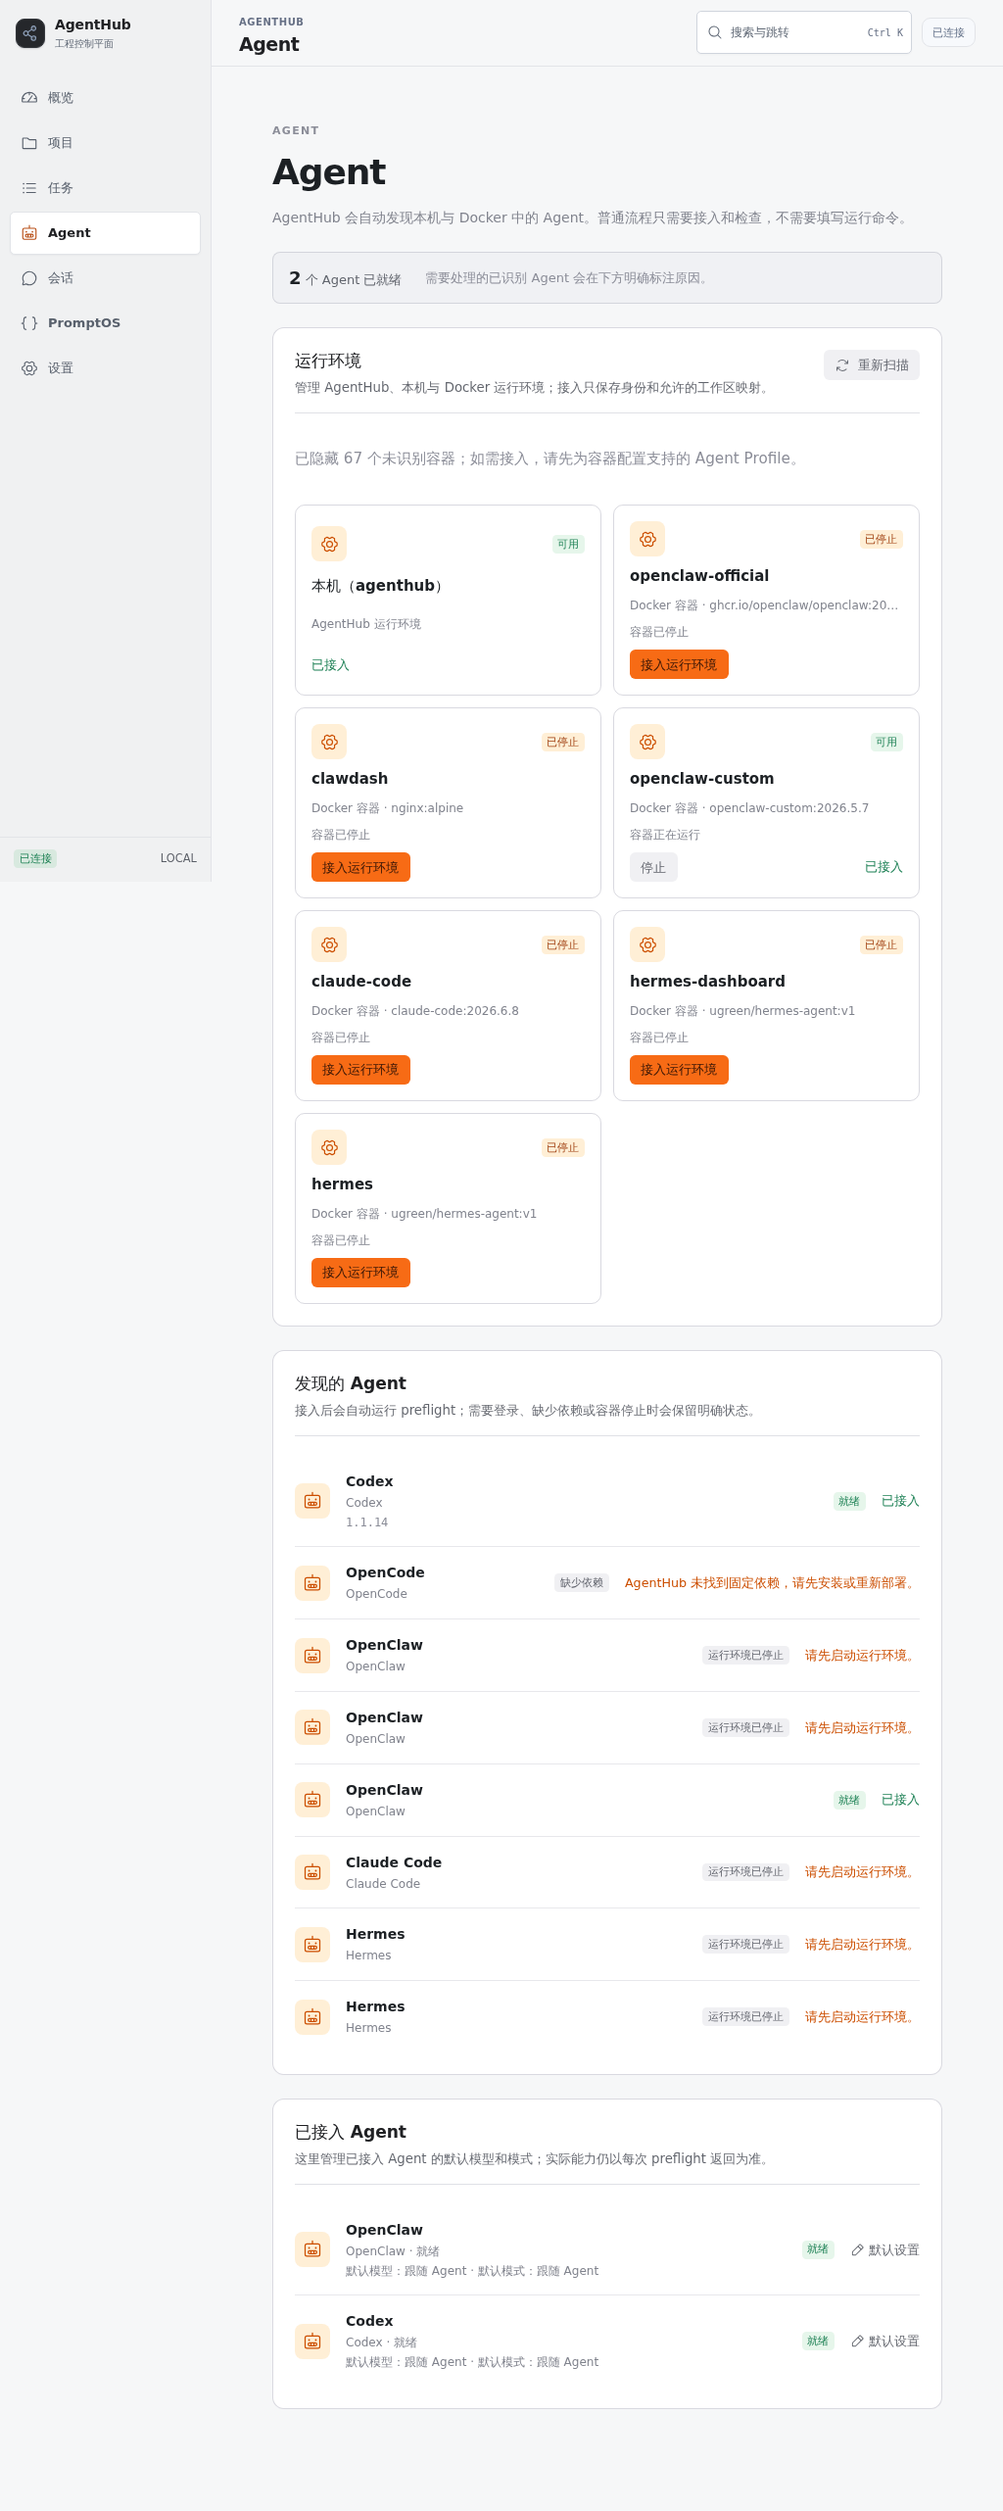
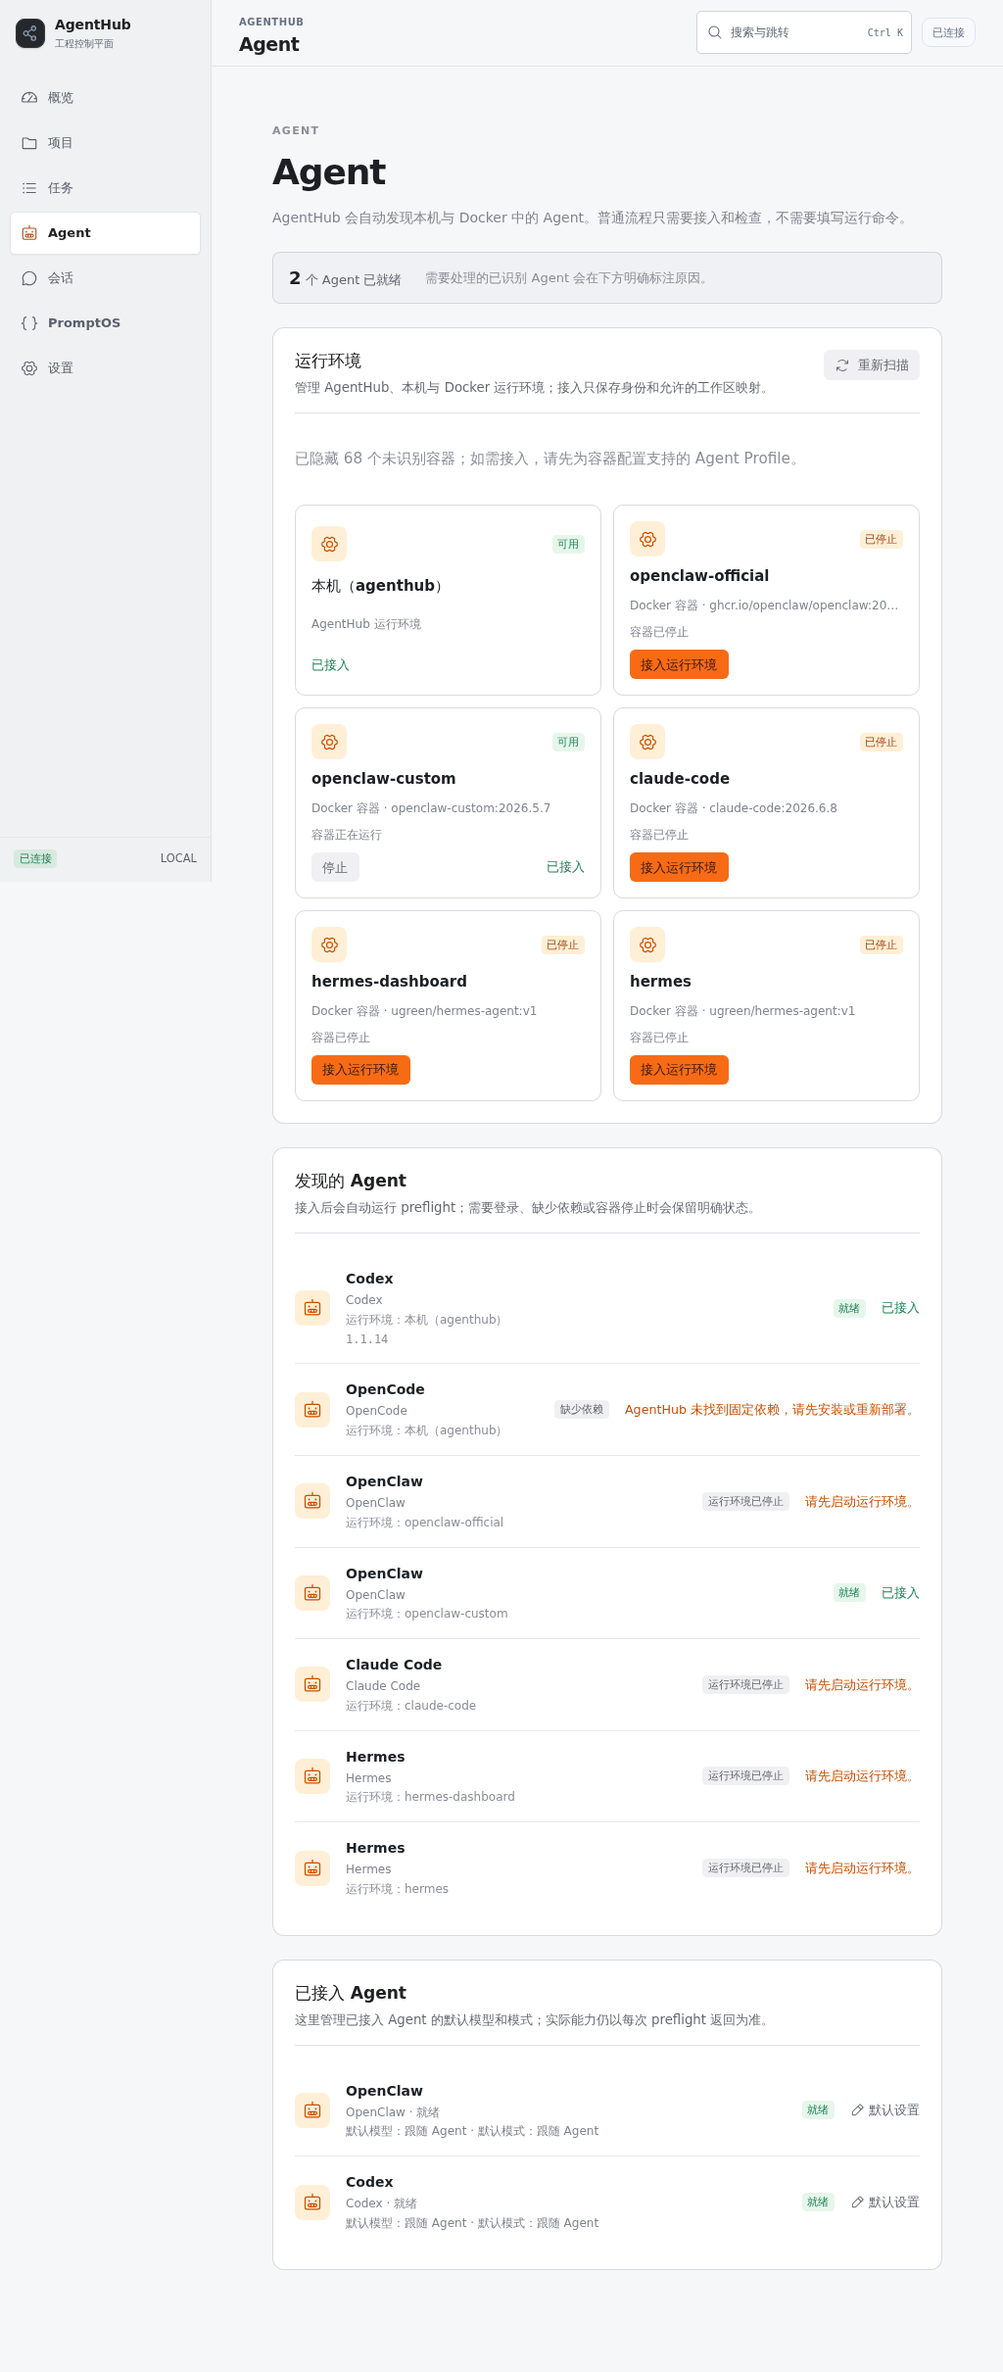
docs(release): 记录 nas48 Agent 视觉验收

diff --git a/docs/implementation/PROGRESS.md b/docs/implementation/PROGRESS.md
@@ -1,10 +1,10 @@
 # 实施进度
 
-最后更新：2026-08-16
+最后更新：2026-08-17
 
 ## v0.6 当前 Goal：产品化与可用性重构
 
-状态：`M1-M9 / UX_REFACTOR_COMPLETE · M10 / AUTOMATED_REGRESSION_READY · M12 / NAS11_DEPLOYED · M13 / DISCOVERY_BOUNDARY_NAS12_DEPLOYED · M14 / REMOTE_INVENTORY_NAS13_DEPLOYED · M15 / DISCOVERY_STATUS_NAS14_DEPLOYED · M16 / PROMPTOS_BINDING_UX_NAS15_DEPLOYED · M17 / TASK_REVIEW_COPY_NAS16_DEPLOYED · M18 / REMOTE_PROJECT_PATH_NAS17_DEPLOYED · M19 / ERROR_COPY_NAS18_DEPLOYED · M20 / TERMINAL_COPY_FOCUS_NAS19_DEPLOYED · M24 / RUNTIME_SETTINGS_SURFACE_NAS24_DEPLOYED · M25 / SESSION_CONFIG_NAS25_DEPLOYED · M26 / WORKSPACE_RUN_STATE_NAS26_DEPLOYED · M27 / APPROVAL_TASK_RUNTIME_COPY_NAS28_DEPLOYED · M28 / REMOTE_NODE_ROOT_EDITOR_NAS29_DEPLOYED · M29 / REMOTE_NODE_COPY_NAS31_DEPLOYED · M30 / CLEAN_OVERLAY_RELEASE_NAS31_DEPLOYED · M31 / REMOTE_NODE_GIT_COPY_NAS32_DEPLOYED · M32 / FINAL_AUTOMATED_GATE_PASS · M33 / COMPOSER_A11Y_NAS33_DEPLOYED · M34 / PROMPTOS_PRESENTATION_CODE_READY · M35 / PROMPTOS_PRESENTATION_NAS34_DEPLOYED · M36 / UI_SURFACE_SYMMETRY_NAS35_DEPLOYED · M37 / FOCUS_STYLE_NAS36_DEPLOYED · M38 / ORDINARY_AGENT_SURFACE_NAS37_DEPLOYED · M39 / DASHBOARD_REPO_KIND_NAS38_DEPLOYED · M40 / USER_ERROR_BOUNDARY_NAS39_DEPLOYED · M41 / MALFORMED_ENVELOPE_NAS40_DEPLOYED · M42 / REALTIME_ENVELOPE_NAS41_DEPLOYED · M43 / ERROR_ENVELOPE_NAS42_DEPLOYED · M44 / PROJECT_PICKER_ERROR_RECOVERY_NAS43_DEPLOYED · M45 / PROJECT_PREFLIGHT_RETRY_NAS44_DEPLOYED · M46 / RESPONSIVE_UI_FIX_NAS45_DEPLOYED · AUTOMATED_VISUAL_GATE_PASS · ACP/LIVE/VENDOR_MATRIX/TERMINAL_UI_VERIFIED · TX5PRO_MANUAL_PENDING`。
+状态：`M1-M9 / UX_REFACTOR_COMPLETE · M10 / AUTOMATED_REGRESSION_READY · M12 / NAS11_DEPLOYED · M13 / DISCOVERY_BOUNDARY_NAS12_DEPLOYED · M14 / REMOTE_INVENTORY_NAS13_DEPLOYED · M15 / DISCOVERY_STATUS_NAS14_DEPLOYED · M16 / PROMPTOS_BINDING_UX_NAS15_DEPLOYED · M17 / TASK_REVIEW_COPY_NAS16_DEPLOYED · M18 / REMOTE_PROJECT_PATH_NAS17_DEPLOYED · M19 / ERROR_COPY_NAS18_DEPLOYED · M20 / TERMINAL_COPY_FOCUS_NAS19_DEPLOYED · M24 / RUNTIME_SETTINGS_SURFACE_NAS24_DEPLOYED · M25 / SESSION_CONFIG_NAS25_DEPLOYED · M26 / WORKSPACE_RUN_STATE_NAS26_DEPLOYED · M27 / APPROVAL_TASK_RUNTIME_COPY_NAS28_DEPLOYED · M28 / REMOTE_NODE_ROOT_EDITOR_NAS29_DEPLOYED · M29 / REMOTE_NODE_COPY_NAS31_DEPLOYED · M30 / CLEAN_OVERLAY_RELEASE_NAS31_DEPLOYED · M31 / REMOTE_NODE_GIT_COPY_NAS32_DEPLOYED · M32 / FINAL_AUTOMATED_GATE_PASS · M33 / COMPOSER_A11Y_NAS33_DEPLOYED · M34 / PROMPTOS_PRESENTATION_CODE_READY · M35 / PROMPTOS_PRESENTATION_NAS34_DEPLOYED · M36 / UI_SURFACE_SYMMETRY_NAS35_DEPLOYED · M37 / FOCUS_STYLE_NAS36_DEPLOYED · M38 / ORDINARY_AGENT_SURFACE_NAS37_DEPLOYED · M39 / DASHBOARD_REPO_KIND_NAS38_DEPLOYED · M40 / USER_ERROR_BOUNDARY_NAS39_DEPLOYED · M41 / MALFORMED_ENVELOPE_NAS40_DEPLOYED · M42 / REALTIME_ENVELOPE_NAS41_DEPLOYED · M43 / ERROR_ENVELOPE_NAS42_DEPLOYED · M44 / PROJECT_PICKER_ERROR_RECOVERY_NAS43_DEPLOYED · M45 / PROJECT_PREFLIGHT_RETRY_NAS44_DEPLOYED · M46 / RESPONSIVE_UI_FIX_NAS45_DEPLOYED · M47 / DISCOVERY_FALSE_POSITIVE_NAS47_DEPLOYED · M48 / AGENT_ENVIRONMENT_HIERARCHY_NAS48_DEPLOYED · AUTOMATED_VISUAL_GATE_PASS · ACP/LIVE/VENDOR_MATRIX/TERMINAL_UI_VERIFIED · TX5PRO_MANUAL_PENDING`。
 
 - 已建立新的 durable Goal，范围以根目录两份 v0.6 方案文档为 Source of Truth。
 - 已读取并冻结 v0.5 基线：HEAD `9040efdf`，Vitest 165 passed/7 skipped，lint、typecheck、
@@ -387,10 +387,12 @@ Session → Run → Message → close`；adopt 响应现在返回最新持久化
 - M45 Project 预检重试已提交为 `3b01c6a` 并发布 nas.44：预检失败时提供“重新检查目录”入口，重试期间明确显示检查中；focused test、typecheck、lint、build 通过。nas.44 基于 nas.43 overlay 保留 ARM64 `node-pty` native binding，容器 `running/healthy`，health/root HTTP 200、Compose config 和 `node-pty=READY` 通过。升级前备份位于 `/volume2/Project/.agenthub/central/deployments/20260816T1445Z-pre-nas44/`；未执行 `compose down`，未删除镜像、卷、用户数据或其他 Agent 容器。完整记录见 `docs/qa/nas/2026-08-16-v06-live44/`。
 
 - M46 响应式 UI 修复已提交为 `a5903c5` 并发布 nas.45：移动菜单回到页头布局流，修复 768/390 页头标题裁切；Project 手机卡片操作项拆分为独立行，修复操作文本重叠。Web build 与 Project focused test 通过；Playwright Chromium 对 6 个主要页面执行 1440/1024/768/390 截图，console error 为 0，24 组横向溢出检查全部通过。nas.45 容器 `running/healthy`，health/root HTTP 200、Compose config 和 `node-pty=READY` 通过。升级前备份位于 `/volume2/Project/.agenthub/central/deployments/20260817T040419Z-pre-nas45/`；未执行 `compose down`，未删除镜像、卷、用户数据或其他 Agent 容器。完整视觉记录见 `docs/qa/visual/2026-08-17-v06/`。
+- M47 Agent 发现准确性已提交为 `869fe52` 并发布 nas.47：移除 `claw` 宽泛容器提示，避免把 `clawdash` 误识别为 OpenClaw；discovery focused test 10/10、server build、health/root 和 `node-pty=READY` 通过。升级前备份位于 `/volume2/Project/.agenthub/central/deployments/20260817T043319Z-pre-nas47/`；未执行 `compose down`，未删除镜像、卷、用户数据或其他 Agent 数据。
+- M48 Agent 发现页信息层级已提交为 `96e683d` 并发布 nas.48：Agent 短名称与 `运行环境：...` 次级信息分层，避免 390px 宽度下容器名挤压标题；Discovery focused test 1/1、Web build、overlay build、health/root、Compose config 和 server 工作目录 `node-pty=READY` 通过。真实 NAS Chromium Agent 页面 1440/1024/768/390 四视口 console error 为 0；390px `scrollWidth=clientWidth=bodyScrollWidth=390`。升级前备份位于 `/volume2/Project/.agenthub/central/deployments/20260817T044150Z-pre-nas48/`；未执行 `compose down`，未删除镜像、卷、用户数据或其他 Agent 容器。完整记录见 `docs/qa/nas/2026-08-17-v06-live48/`。
 
 ### 当前进行中
 
-- 自动化视觉 gate 已完成：真实 nas.45 页面在 Chromium headless 下通过 1440/1024/768/390 截图、console 和横向溢出检查；TX5Pro/Computer Use 人工视觉通道仍不可用，因此仅保留 `TX5PRO_MANUAL_PENDING`，不伪称人工通过。
+- 自动化视觉 gate 已完成：真实 nas.48 Agent 页面在 Chromium headless 下通过 1440/1024/768/390 稳定截图、console 和 390px 横向溢出检查；前一轮六页全量检查仍记录在 nas.45 视觉证据中。TX5Pro/Computer Use 手工通道仍不可用，因此仅保留 `TX5PRO_MANUAL_PENDING`，不伪称人工通过。
 - 普通用户旅程的后端闭环已有自动化与真实 Codex/Remote Node 证据；Claude Code、Hermes、OpenClaw
   仍按真实 preflight 能力差异呈现，不把缺少 adapter 或 workspace 映射误报为 READY。
 - M24 Runtime 设置入口已在 nas.24 正式发布并完成静态 bundle、健康状态、授权 capability、Terminal smoke 和

diff --git a/docs/RELEASE-v0.6.0.md b/docs/RELEASE-v0.6.0.md
@@ -96,6 +96,7 @@
 | NAS Compose nas.43       | `agenthub:0.6.0-nas.43`，ARM64，revision `4a0a73a`，`running/healthy`，`192.168.5.110:3210`；Project PathPicker 错误恢复 focused test 1 file/1 passed、typecheck/lint/build、health/root HTTP 200、Compose config 和 server 工作目录 node-pty `READY` 通过 |
 | NAS Compose nas.44       | `agenthub:0.6.0-nas.44`，ARM64，revision `3b01c6a`，`running/healthy`，`192.168.5.110:3210`；Project 预检重试 focused test 1 file/1 passed、typecheck/lint/build、health/root HTTP 200、Compose config 和 server 工作目录 node-pty `READY` 通过 |
 | NAS Compose nas.45       | `agenthub:0.6.0-nas.45`，ARM64，revision `a5903c5`，`running/healthy`，`192.168.5.110:3210`；响应式 UI 修复、Web build、Project focused test、自动化视觉四视口 24 组横向溢出、console error 0、health/root HTTP 200、Compose config 和 server 工作目录 node-pty `READY` 通过 |
+| NAS Compose nas.48       | `agenthub:0.6.0-nas.48`，ARM64，revision `96e683d`，`running/healthy`，`192.168.5.110:3210`；Agent 名称/运行环境分层、Web focused test/build、真实 NAS Chromium Agent 四视口 console error 0、390px 横向溢出、health/root HTTP 200、Compose config 和 server 工作目录 node-pty `READY` 通过 |
 | Remote Node Project      | `cdb7d5b`；Remote Node workflow target preflight、目录授权根、fs.list 相对路径和 traversal 拒绝通过；Route `/api/v1/projects/preflight` 已接入普通用户 PathPicker                                                                                                                                                                                         |
[1 lines of base64/hex data omitted]
 
@@ -302,6 +303,8 @@ UI 对称表面与 nas.35 发布记录见 [`docs/qa/nas/2026-08-16-v06-live35/RE
   `/volume2/Project/.agenthub/central/deployments/20260816T1432Z-pre-nas43/`；nas.42 镜像保留，可按单 service 回滚。首次完整构建因 Dockerfile frontend 429 未采用，最终使用 nas.42 overlay 仅覆盖 web dist 并保留 node-pty native binding；升级只重建 `agenthub` service，未执行 `compose down`，未删除镜像、卷、用户数据或其他 Agent 容器。
 - nas.45 已完成自动化视觉 gate，但仍未声明 TX5Pro/人工视觉验收。升级前备份为
   `/volume2/Project/.agenthub/central/deployments/20260817T040419Z-pre-nas45/`；nas.44 镜像保留，可按单 service 回滚。升级使用 nas.44 overlay 仅覆盖 server/web dist 并保留 node-pty native binding；升级只重建 `agenthub` service，未执行 `compose down`，未删除镜像、卷、用户数据或其他 Agent 容器。
+- nas.48 已完成自动化视觉 gate，但仍未声明 TX5Pro/人工视觉验收。升级前备份为
+  `/volume2/Project/.agenthub/central/deployments/20260817T044150Z-pre-nas48/`；nas.47 镜像保留，可按单 service 回滚。升级使用 nas.47 overlay 仅覆盖 server/web dist 并保留 node-pty native binding；升级只重建 `agenthub` service，未执行 `compose down`，未删除镜像、卷、用户数据或其他 Agent 容器。
 - nas.20 曾因常规镜像覆盖 ARM64 `node-pty` binding 而被 supersede；nas.21 已用 overlay 基于 nas.19 修复，
   nas.20/nas.21 镜像均保留，未删除镜像、卷或用户数据。
 - 升级只重建 `agenthub` service，没有执行 `docker compose down`，没有删除镜像、卷、用户数据或其他 Agent 容器。
@@ -309,7 +312,7 @@ UI 对称表面与 nas.35 发布记录见 [`docs/qa/nas/2026-08-16-v06-live35/RE
 
 ## 未验证项与明确边界
 
-- 当前环境没有 TX5Pro/Computer Use 人工浏览器通道，因此 1440、1024、768、390 四视口人工视觉验收和人工可用性 checklist 尚未完成；nas.45 的自动化 Chromium 视觉 gate 已完成，不能将其声明为 TX5Pro v0.6 人工视觉通过。
+- 当前环境没有 TX5Pro/Computer Use 人工浏览器通道，因此 1440、1024、768、390 四视口人工视觉验收和人工可用性 checklist 尚未完成；nas.48 的自动化 Chromium 视觉 gate 已完成，不能将其声明为 TX5Pro v0.6 人工视觉通过。
 - NAS 当前 `linux/arm64` 的正式 nas.17 镜像已具备可加载的 `node-pty` native binding，
   `GET /api/v1/settings/capabilities` 返回 `terminal.available=true`、`code=READY`；如果其他平台或镜像
   缺少 native binding，Workspace 仍会显示中文原因并禁用 Terminal 操作，不伪称 PTY 已可用。

diff --git a/docs/qa/nas/2026-08-17-v06-live48/README.md b/docs/qa/nas/2026-08-17-v06-live48/README.md
@@ -1,0 +1,44 @@
+# AgentHub v0.6 nas.48 发布记录
+
+日期：2026-08-17
+
+提交：`96e683d`
+
+镜像：`agenthub:0.6.0-nas.48`
+
+入口：`http://192.168.5.110:3210/`
+
+## 发布内容
+
+- Agent 发现列表将短 Agent 名称与 `运行环境` 分成独立层级，避免手机宽度下把容器名挤进标题并造成多行折返。
+- 保留供应商原始 Agent 名称、容器名和版本等专业数据；普通用户仍只看到中文状态与下一步操作。
+- 基于已验证的 `agenthub:0.6.0-nas.47` 构建 overlay，仅覆盖 `apps/server/dist` 与 `apps/web/dist`，保留 ARM64 `node-pty` native binding。
+
+## 发布证据
+
+| 检查项 | 结果 |
+| --- | --- |
+| NAS 主机 / 架构 | `DH4300Plus` / `aarch64` |
+| Container | `268c5d429bcb...`，`running/healthy` |
+| Image ID | `sha256:e273874f5e2d7161a921443ae092312776f78ef07c99bce0f879061846fd16bb` |
+| Revision label | `96e683d` |
+| Health | `/api/v1/health` HTTP 200，`version=0.6.0`、`database=pglite`、`web=true` |
+| 根页面 | HTTP 200 |
+| Terminal native | server 工作目录加载 `node-pty=READY` |
+| Compose config | 通过 |
+| 受保护 Agent 容器 | `openclaw-custom` 保持 running/healthy；`openclaw-official`、`claude-code`、`hermes-dashboard`、`hermes` 未被本次发布启动 |
+
+## 验证命令
+
+- `corepack pnpm exec vitest run apps/web/src/pages/v06/DiscoveryPages.test.tsx`：1 file / 1 passed。
+- `corepack pnpm --filter @agenthub/web build`：通过，1716 modules transformed。
+- Docker overlay build：通过；`node-pty` native smoke 通过。
+- Playwright Chromium 真实 NAS 页面：Agent 页面 1440、1024、768、390 四视口稳定截图，console error `0`。
+- 390px DOM 回归：`scrollWidth=clientWidth=390`，`bodyScrollWidth=390`，Agent 名称与运行环境分层存在。
+
+## 变更边界与回滚
+
+- 升级前备份：`/volume2/Project/.agenthub/central/deployments/20260817T044150Z-pre-nas48/`。
+- 只执行了 `docker compose up -d --no-build agenthub`，没有执行 `compose down`。
+- 未删除容器、镜像、卷、Project、PGlite 数据、worktree 或其他 Agent 数据；nas.47 镜像保留为回滚点。
+- 本记录是自动化 Chromium 视觉验收，不等同于 TX5Pro 人工浏览器验收。

diff --git a/docs/qa/visual/2026-08-17-v06/README.md b/docs/qa/visual/2026-08-17-v06/README.md
@@ -2,7 +2,7 @@
 
 日期：2026-08-17
 
-部署：`agenthub:0.6.0-nas.45`  revision：`a5903c5`
+部署：`agenthub:0.6.0-nas.48`  revision：`96e683d`
 
 入口：`http://192.168.5.110:3210/`
 
@@ -16,10 +16,11 @@
 
 ## 结论
 
-`AUTOMATED_VISUAL_GATE_PASS`。本轮确认并修复了两个高影响问题：
+`AUTOMATED_VISUAL_GATE_PASS`。本轮确认并修复了三个高影响问题：
 
 1. 768/390 宽度下移动菜单使用旧的 fixed 样式覆盖页头，导致 `AGENTHUB`/页面标题只露出尾部；现在菜单回到页头布局流，标题完整可见。
 2. 手机端 Project 卡片的“开始会话”和“编辑/归档”共用同一 CSS Grid 行，操作文本相互覆盖；现在操作项按独立行排列。
+3. Agent 发现列表将 Agent 短名称与运行环境分成独立层级，避免 390px 宽度下容器名挤进标题并造成不必要的折返。
 
 复核结果：
 
@@ -27,6 +28,7 @@
 - 截图页面 console error 数量为 `0`。
 - 登录页显示单一密码查看按钮，品牌图标为网络节点图标，不再使用大写 `A` 占位。
 - Agent 页面在等待扫描完成后显示真实运行环境、容器停止状态、依赖缺失和已接入 Agent；初始加载骨架截图不作为验收证据。
+- nas.48 Agent 页面 390px 回归的 `scrollWidth`、`clientWidth`、`bodyScrollWidth` 均为 `390`，console error 为 `0`；截图显示 `Codex`、`OpenClaw`、`Claude Code`、`Hermes` 标题与 `运行环境：...` 次级信息分层。
 
 ## 关键截图
 
@@ -43,6 +45,6 @@
 
 ## 边界与后续
 
-- 本记录是自动化 Chromium 视觉验收，不等同于 TX5Pro 人工浏览器验收；当前环境没有 TX5Pro/Computer Use 通道，因此不声明人工视觉通过。
+- 本记录是自动化 Chromium 视觉验收，不等同于 TX5Pro 人工浏览器验收；当前环境没有 TX5Pro/Computer Use 手工通道，因此不声明人工视觉通过。
 - 设置页在 NAS 当前状态下会展示 67 个未识别容器，信息密度较高但没有溢出或遮挡；后续可在 Agent 识别流程稳定后继续优化筛选与分组。
 - Sessions 与 PromptOS 的空状态留有较多留白，当前可读且操作路径明确，作为下一轮体验优化项保留。

diff --git a/CHANGELOG.md b/CHANGELOG.md
@@ -9,10 +9,10 @@
 - 版本元数据统一为 `0.6.0`，真实 live gate 4 个文件/9 个测试通过；当前收尾全仓 Vitest 51 个文件（221 passed/9 skipped）与 Playwright E2E 24/24 通过；GitHub Actions 历史 release gate 保持全绿；
 - 普通 Agent 发现页与 Remote Node inventory 不再向普通用户显示 `ACP/adapter` 实现细节；新增边界测试防止回归。
 - 概览页 Project 列表将 `repoKind` 映射为“Git / 非 Git”，不再向普通用户显示 `GIT` 原始枚举。
-- 正式 NAS Compose 当前为 `agenthub:0.6.0-nas.45`（revision `a5903c5`），入口为 `192.168.5.110:3210`，容器 root/privileged、running/healthy；升级未执行 `compose down`，未删除镜像、卷、用户数据或其他 Agent 容器。
+- 正式 NAS Compose 当前为 `agenthub:0.6.0-nas.48`（revision `96e683d`），入口为 `192.168.5.110:3210`，容器 root/privileged、running/healthy；升级未执行 `compose down`，未删除镜像、卷、用户数据或其他 Agent 容器。
 - UI CSS 共享层已收敛到 `styles/design-system.css`；按钮对比度修复后四视口 axe 与完整 24 项 Playwright E2E 全部通过。
 
-已知边界：nas.45 已完成 Playwright Chromium 自动化视觉 gate（四视口、六页面、console 与横向溢出检查）；当前仍没有 TX5Pro/Computer Use 通道，因此人工视觉验收保持未验证；请参阅 [`docs/RELEASE-v0.6.0.md`](docs/RELEASE-v0.6.0.md)。
+已知边界：nas.48 已完成 Playwright Chromium 自动化视觉 gate（Agent 页面四视口稳定截图、console 与 390px 横向溢出检查；前一轮六页面全量检查仍有效）；当前仍没有 TX5Pro/Computer Use 通道，因此人工视觉验收保持未验证；请参阅 [`docs/RELEASE-v0.6.0.md`](docs/RELEASE-v0.6.0.md)。
 
 ## 0.3.0 - 2026-08-10
 

diff --git a/deploy/compose/README.md b/deploy/compose/README.md
@@ -1,6 +1,6 @@
 # AgentHub v0.6 NAS Compose 部署
 
-该配置用于当前 ARM64 绿联 NAS，当前正式镜像为 `agenthub:0.6.0-nas.45`。它按用户明确授权以 root/privileged 运行，并拥有 Project
+该配置用于当前 ARM64 绿联 NAS，当前正式镜像为 `agenthub:0.6.0-nas.48`。它按用户明确授权以 root/privileged 运行，并拥有 Project
 读写、Codex HOME、Git identity 配置、Docker socket 和 host Docker CLI。该能力等同 NAS root，
 只能运行可信镜像。
 
